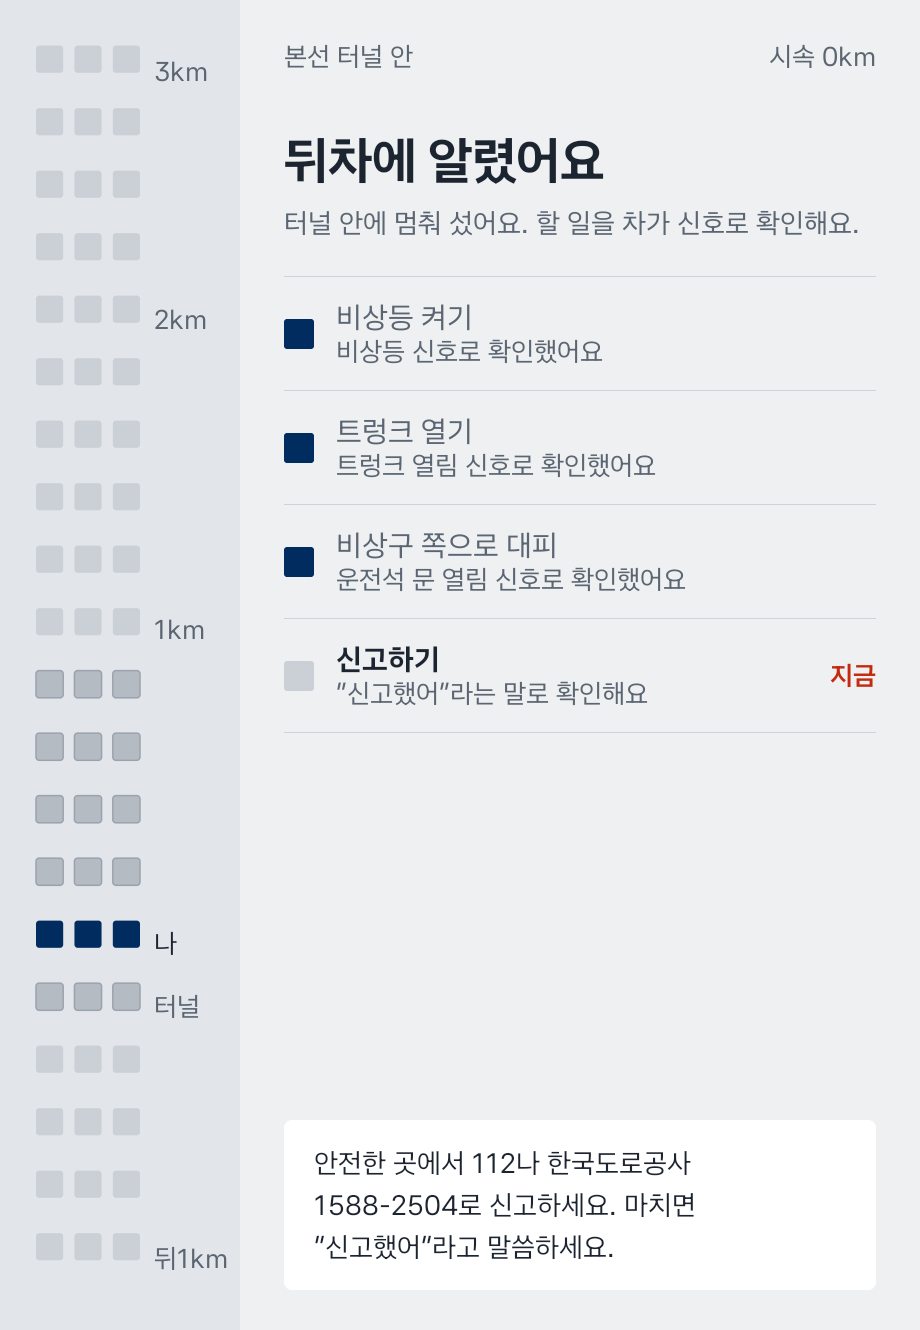
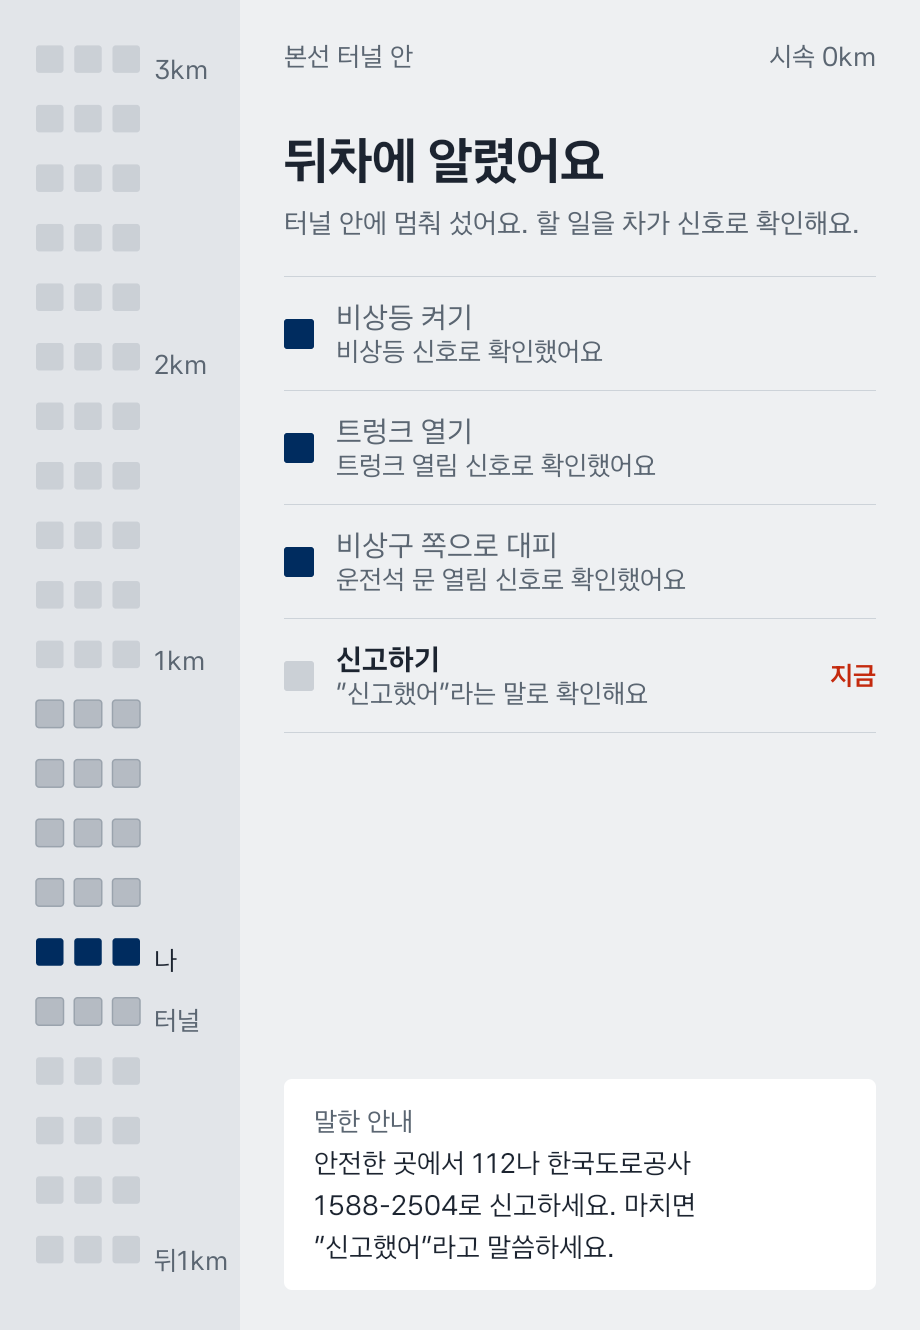
v0.3.0 화면 다시 캡처(뒤차 재안내·확인 질문·신고 번호·야간 추가), 대표 목업 교체

diff --git a/README.md b/README.md
@@ -86,11 +86,25 @@
 <tr>
 <td><b>후방 주의</b> (앞서 가는 차 A)<br>누구인지 몰라도 방향과 시간만으로 대비</td>
 <td><b>신고 도우미</b> (차 B, 주차 후)<br>"신고해줘"라고 말한 순간을 돌려준다</td>
-<td><b>위험 지점 지도</b><br>평일 저녁 터널 입구에 제보가 몰린다 (시연 데이터). 확장: 지자체·경찰의 단속·시설 개선 위치 자료로</td>
+<td><b>위험 지점 지도</b><br>평일 저녁 터널 입구에 제보가 몰린다 (시연 데이터, 지자체·경찰 위치 자료로 확장 가능)</td>
+</tr>
+<tr>
+<td><img src="docs/screens/10_stopped500.png" alt="멈춘 차 500m 앞 재안내"></td>
+<td><img src="docs/screens/11_stillthere.png" alt="지나간 뒤 확인 질문"></td>
+<td><img src="docs/screens/12_reportnum.png" alt="신고 번호 안내"></td>
+</tr>
+<tr>
+<td><b>멈춘 차 앞 재안내</b> (뒤차 D)<br>500m 앞에서 "속도를 줄이고 비켜 가세요" 한 번 더</td>
+<td><b>지나간 뒤 확인</b> (뒤차 D)<br>"아직 서 있었나요?"에 "있어/없어" → 뒤차 알림을 이어 두거나 지운다</td>
+<td><b>신고 번호</b> (뒤차 D)<br>원하면 112·1588-2504. 누르면 전화 앱만 열리고, 멈추라고는 하지 않는다</td>
+</tr>
+<tr>
+<td><img src="docs/screens/night_hazard.png" alt="야간 앞길 주의보"></td>
+<td colspan="2" valign="top"><b>야간</b><br>차의 야간 모드를 따라 바탕이 어두워진다. 위험은 같은 빨강, 내 줄은 밝은 칸.<br><br><img src="docs/mockups/hero_night.jpg" alt="야간 고속도로에서 본 니어바이 차 안 화면"></td>
 </tr>
 </table>
 
-<sub>Pleos Connect 앱 창 크기(세로 1칸 920×1330)로 맞춘 에뮬레이터에서 찍은 실제 실행 화면(v0.2.0, v0.3.0 화면으로 다시 찍을 예정). 시연 조작판은 숨기고 찍었다(<a href="docs/screens/0_demo.png">조작판 포함 화면</a>).</sub>
+<sub>Pleos Connect 앱 창 크기(세로 1칸 920×1330)로 맞춘 에뮬레이터에서 찍은 실제 실행 화면(v0.3.0). 시연 조작판은 숨기고 찍었다(<a href="docs/screens/0_demo.png">조작판 포함 화면</a>).</sub>
 
 ### 움직이는 장면
 
